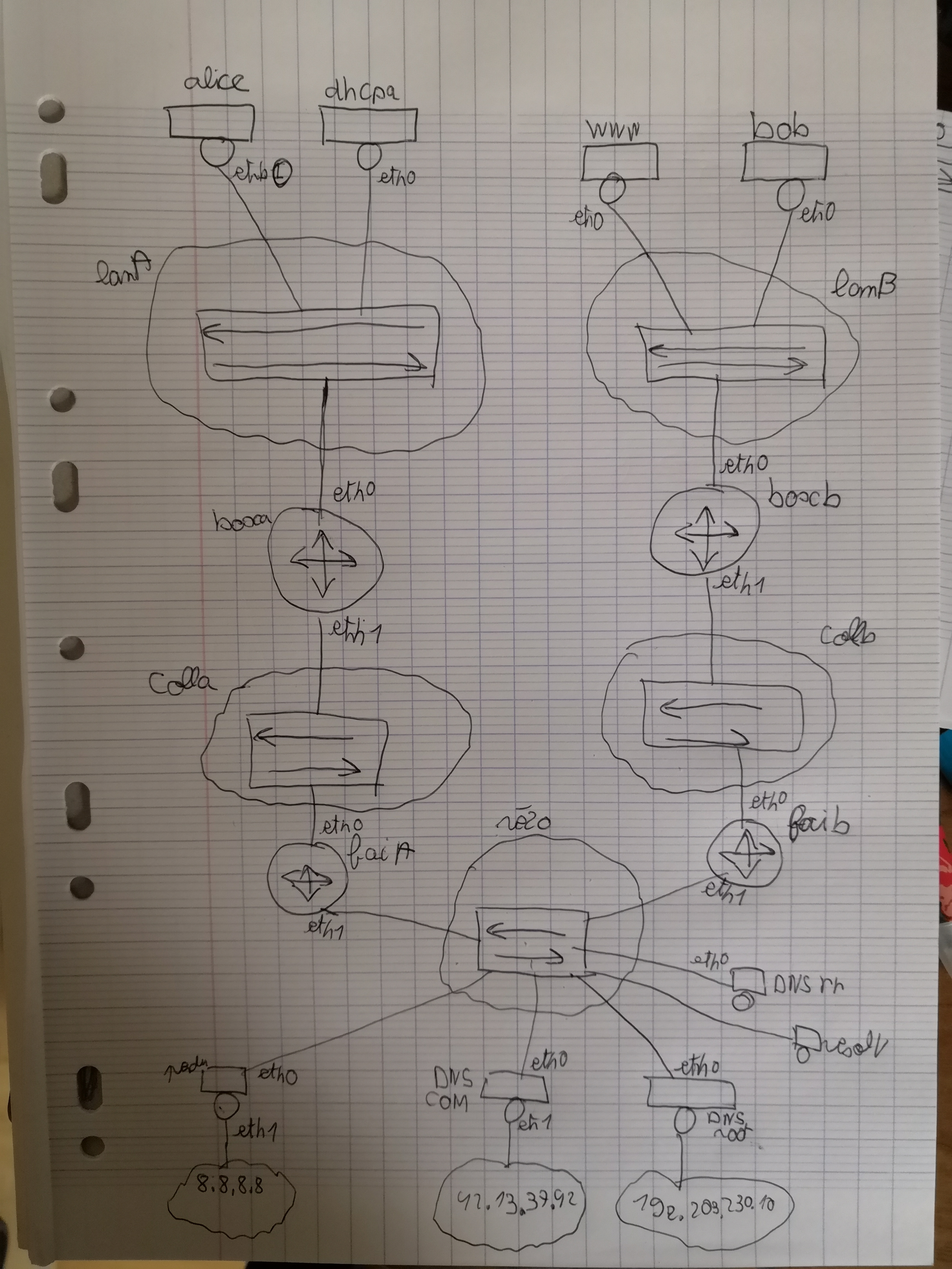
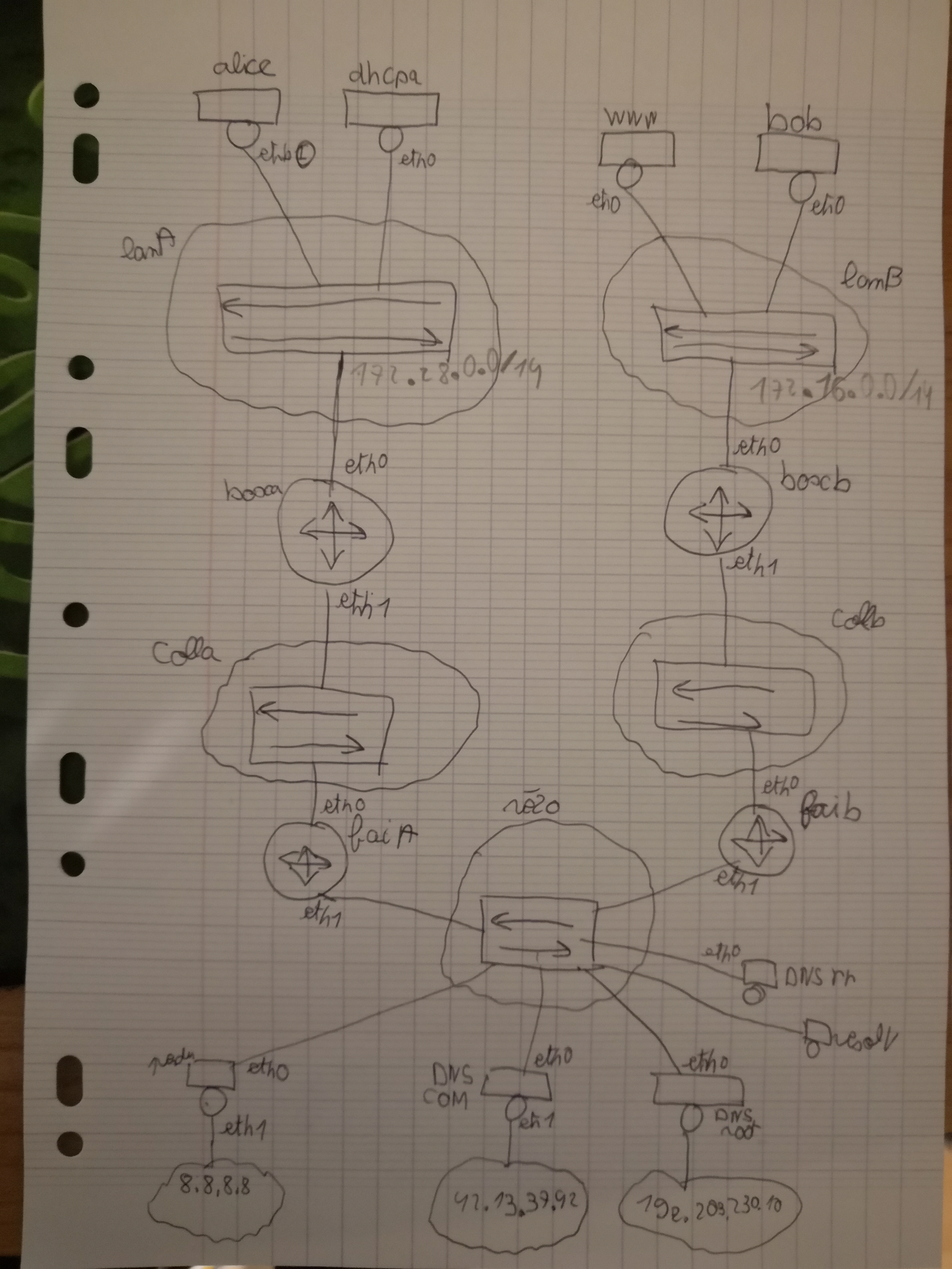
modif readme + schéma

diff --git a/README.md b/README.md
@@ -1,15 +1,18 @@
 # DM-Rezo-Decembre
 DM rézo décembre
 
-Hugo                                      172.28.0.0/14
+172.28.0.0/14
 
-Landry                                      172.16.0.0/14
+172.16.0.0/14
 
 
 
 
 Fichier à modifier:
- - boxa.startup
- - dhcpa.startup
- - boxb.startup
- - dnsrr/etc/bind/db.com.rr
+./dhcpa/etc/dhcp3/dhcpd.conf
+./dhcpa.startup
+./boxa.startup
+
+./boxb/etc/dhcp3/dhcpd.conf
+./boxb.startup
+./dnsrr/etc/bind/db.com.rr
